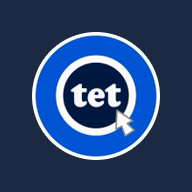
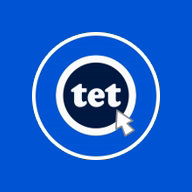
PWA: iconos con fondo azul de marca #0055d4 y el simbolo circular transparente (R2b) + sw tet-admin-v4

diff --git a/sw.js b/sw.js
@@ -2,7 +2,7 @@
    Estrategias equivalentes al sw.js anterior:
    - html/js: NetworkFirst (y 5xx -> copia en caché)   - css: StaleWhileRevalidate
    - imágenes y fuentes: CacheFirst (máx 20, 7 días) */
-const VERSION = 'tet-admin-v3';
+const VERSION = 'tet-admin-v4';
 
 const CACHE_HTML = 'tet-html-' + VERSION;
 const CACHE_JS = 'tet-js-' + VERSION;
